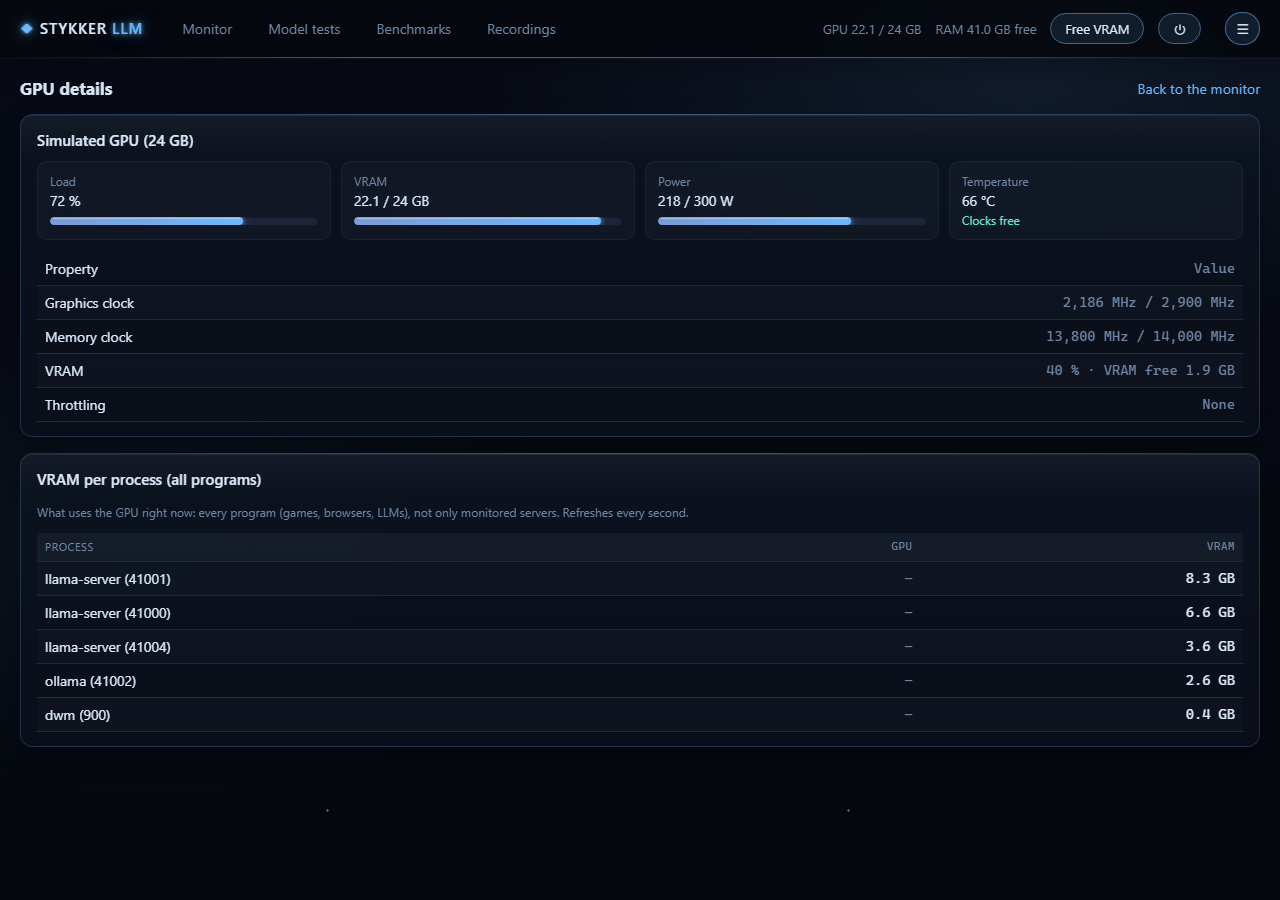
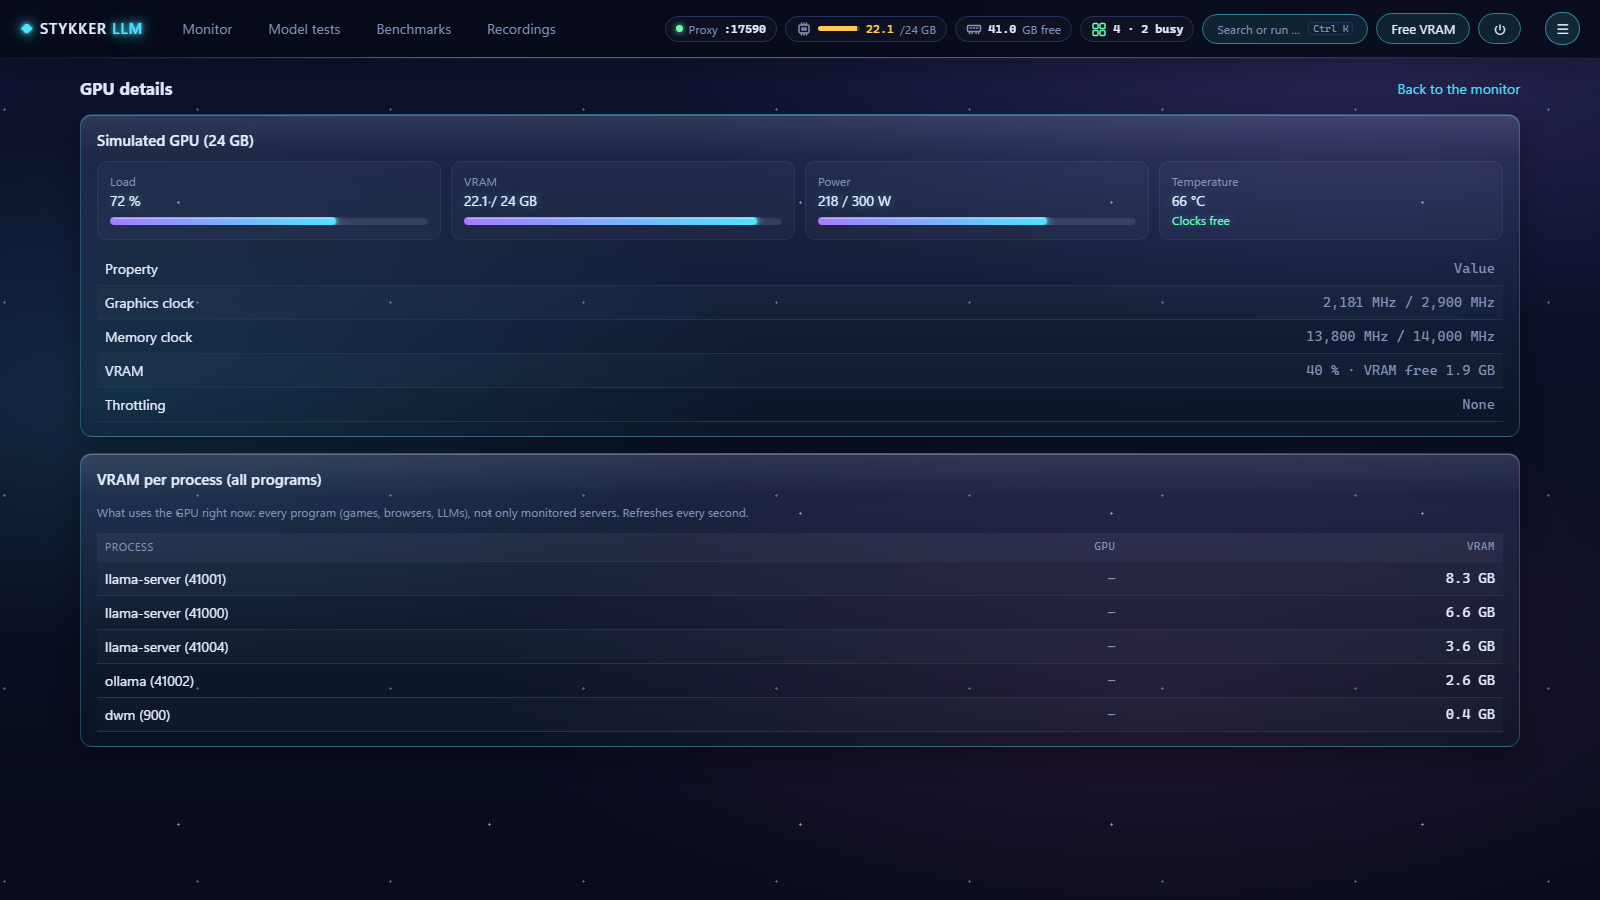
U13: clean-up and docs for the new interface
Dead code and CSS of the old card removed (spark helpers, ModelLine, RoTip, MemPalette,
.card.server rules). README (en/de) and docs/ui.md describe Dark, Spacepunk Titan and
System, symbols and Ctrl+K; CHANGELOG lists the redesign. New README images (monitor in
Dark and Titan, model tests, GPU) captured from the simulator with headless Edge. Titan's
fastest speed step is blue instead of the orange accent.

diff --git a/src/StykkerLlm.Server/wwwroot/app.css b/src/StykkerLlm.Server/wwwroot/app.css
@@ -140,9 +140,6 @@ button.link:not(:disabled):hover{box-shadow:none}
 .card:hover{border-color:color-mix(in srgb,var(--card-border) 60%,var(--acc));box-shadow:inset 0 1px 0 var(--top-line),0 14px 34px rgb(0 0 0/.38)}
 @keyframes rise{from{opacity:0;transform:translateY(8px)}to{opacity:1;transform:none}}
 /* ein Server, der gerade schreibt, leuchtet an der Kante, ein Lichtstreif läuft über die Oberkante */
-.card.server.busy{border-color:rgb(var(--good-rgb)/.45);box-shadow:inset 0 1px 0 var(--top-line),0 10px 26px rgb(0 0 0/.32),0 0 26px rgb(var(--good-rgb)/.12)}
-.card.server.busy::before{left:0;right:0;opacity:1;background:linear-gradient(90deg,transparent,var(--good),transparent) no-repeat;background-size:40% 100%;animation:sweep 2.4s linear infinite}
-@keyframes sweep{from{background-position:-60% 0}to{background-position:160% 0}}
 
 /* Abschnittsköpfe: Akzentstrich davor, Haarlinie dahinter */
 .sec{display:flex;align-items:center;gap:10px}
@@ -156,7 +153,6 @@ button.link:not(:disabled):hover{box-shadow:none}
 
 /* große Zahlen mit Verlauf, Kennzahlen als kleine Kacheln */
 .big{background:linear-gradient(180deg,var(--ink),color-mix(in srgb,var(--ink) 50%,var(--acc)));-webkit-background-clip:text;background-clip:text;color:transparent;font-variant-numeric:tabular-nums;letter-spacing:-.01em}
-.card.server.busy .big{background-image:linear-gradient(180deg,color-mix(in srgb,var(--good) 55%,white),var(--good));filter:drop-shadow(0 0 10px rgb(var(--good-rgb)/.35))}
 .kpi{background:rgb(var(--ink-rgb)/.03);border:1px solid rgb(var(--ink-rgb)/.06);border-radius:10px;padding:10px 12px;transition:border-color .2s,background .2s}
 .kpi:hover{border-color:rgb(var(--acc-rgb)/.3);background:rgb(var(--acc-rgb)/.05)}
 .kpi .bar{margin-top:6px}
@@ -202,8 +198,6 @@ label.check{display:flex;align-items:center;gap:8px;font-size:13px;cursor:pointe
   *,*::before,*::after{animation:none!important;transition:none!important}
 }
 .spark .area{fill:rgb(var(--acc-rgb)/.13)}
-.card.server.busy .spark polyline{stroke:var(--good);filter:drop-shadow(0 0 4px rgb(var(--good-rgb)/.8))}
-.card.server.busy .spark .area{fill:rgb(var(--good-rgb)/.12)}
 .brand .acc{background-image:linear-gradient(90deg,var(--acc),color-mix(in srgb,var(--acc) 55%,white))}
 details.menu>div>a{text-align:left;padding-left:12px}details.menu{z-index:6}
 /* Kompakt: ☰ oben rechts neben der Marke, Messwerte darunter, Reiter als letzte Zeile */
@@ -215,12 +209,11 @@ html.shell .bar>div::after{display:none}
 /* ebenso Weichzeichner und Filter: ohne GPU rechnet jeder Takt sie neu (Lichthöfe bleiben als box-shadow) */
 html.shell .top,html.shell details.menu>div,html.shell .modal-back{backdrop-filter:none}
 html.shell .top{background:rgb(var(--bg-rgb)/.97)}
-html.shell .spark polyline,html.shell .card.server.busy .big,html.shell .card.server.busy .spark polyline{filter:none}
+html.shell .spark polyline{filter:none}
 /* und weiche Schatten und gleitende Breiten: der Takt (alle 2 s) zeichnet die Karten neu, ohne GPU kostet ein
    breiter Weichzeichner-Schatten dann jedes Mal. Kanten und Farben bleiben, nur ohne Weichzeichner. */
 html.shell .bar>div,html.shell .stack>div{transition:none}
 html.shell .card,html.shell .card:hover{box-shadow:inset 0 1px 0 var(--top-line)}
-html.shell .card.server.busy{box-shadow:inset 0 1px 0 var(--top-line),0 0 0 1px rgb(var(--good-rgb)/.25)}
 html.shell .top{box-shadow:none}
 html.shell nav a.active{box-shadow:0 0 0 1px rgb(var(--acc-rgb)/.25)}
 
@@ -232,8 +225,6 @@ html.shell nav a.active{box-shadow:0 0 0 1px rgb(var(--acc-rgb)/.25)}
 .brand .acc{background:none;-webkit-background-clip:border-box;background-clip:border-box;color:var(--acc)}
 .card{background-image:linear-gradient(180deg,rgb(255 255 255/var(--sheen)),rgb(255 255 255/0) 42px),linear-gradient(180deg,var(--card-top),var(--card-bottom))}
 .big{background:none;-webkit-background-clip:border-box;background-clip:border-box;color:var(--ink)}
-.card.server.busy .big,html.shell .card.server.busy .big{color:#fff;filter:none;background:none;
-  text-shadow:0 0 4px rgb(var(--acc-rgb)/min(1,calc(1.4*var(--glow)))),0 0 14px rgb(var(--acc-rgb)/calc(1.1*var(--glow))),0 0 30px rgb(var(--acc-rgb)/calc(.6*var(--glow)))}
 .dot{text-shadow:0 0 3px color-mix(in srgb,currentColor calc(var(--glow)*100%),transparent),0 0 9px color-mix(in srgb,currentColor calc(var(--glow)*80%),transparent)}
 .bar>div{box-shadow:0 0 4px rgb(var(--acc-rgb)/min(1,calc(1.3*var(--glow)))),0 0 12px rgb(var(--acc-rgb)/calc(.8*var(--glow)))}
 .bar>div::before{content:"";position:absolute;left:3px;right:3px;top:1px;height:1px;background:rgb(255 255 255/.35)}
@@ -246,9 +237,8 @@ nav a.active{text-shadow:0 0 10px rgb(var(--acc-rgb)/calc(1.2*var(--glow)))}
 .spark polyline.glow1{stroke-width:10px;opacity:calc(.2*var(--glow))}
 .spark polyline.glow2{stroke-width:5px;opacity:calc(.4*var(--glow))}
 .spark polyline.line{vector-effect:non-scaling-stroke;stroke-width:1.8px}
-.spark polyline,.card.server.busy .spark polyline{filter:none;stroke:var(--acc)}
-.card.server.busy .spark polyline.glow1,.card.server.busy .spark polyline.glow2{stroke:var(--acc)}
-.spark .area,.card.server.busy .spark .area{fill:rgb(var(--acc-rgb)/.14)}
+.spark polyline{filter:none;stroke:var(--acc)}
+.spark .area{fill:rgb(var(--acc-rgb)/.14)}
 .spark-tip{position:absolute;right:-3px;width:8px;height:8px;margin-top:-4px;border-radius:50%;background:var(--acc);
   box-shadow:0 0 0 3px rgb(var(--acc-rgb)/calc(.25*var(--glow))),0 0 10px 3px rgb(var(--acc-rgb)/calc(.45*var(--glow)));pointer-events:none}
 .spark-tip::after{content:"";position:absolute;left:2.5px;top:2.5px;width:3px;height:3px;border-radius:50%;background:rgb(255 255 255/.8)}
@@ -269,7 +259,6 @@ html[data-theme=titan] .brand .logo,html[data-theme=titan] .brand .acc{color:var
 html[data-theme=titan] .card,html[data-theme=titan] .modal,html[data-theme=titan] details.menu>div{background:var(--card);border:1px solid var(--card-border);box-shadow:none;backdrop-filter:none}
 html[data-theme=titan] .card::before{display:none}
 html[data-theme=titan] .card:hover{border-color:var(--ink);box-shadow:none}
-html[data-theme=titan] .card.server.busy{border-color:var(--card-border);box-shadow:inset 4px 0 0 var(--signal)}
 html[data-theme=titan] .kpi{background:var(--card2);border:1px solid var(--line);border-radius:var(--radius)}
 html[data-theme=titan] .kpi:hover{background:var(--card2);border-color:var(--card-border)}
 html[data-theme=titan] .sec{color:var(--ink);letter-spacing:.14em;font-family:var(--font-num);font-size:11px}
@@ -307,19 +296,17 @@ html[data-theme=titan] .dot{animation:none;text-shadow:none}
 /* Display-Fenster: die großen Zahlen und die Kurve auf dunklem Einsatz, dort leuchtet Phosphor-Grün */
 html[data-theme=titan] .big{display:inline-block;background:var(--disp);color:var(--disp-ink);padding:4px 10px;border:1px solid var(--card-border);
   text-shadow:0 0 6px rgb(var(--disp-ink-rgb)/calc(.6*var(--glow))),0 0 16px rgb(var(--disp-ink-rgb)/calc(.3*var(--glow)))!important}
-html[data-theme=titan] .card.server.busy .big,html.shell[data-theme=titan] .card.server.busy .big{background:var(--disp);color:var(--disp-ink);text-shadow:0 0 6px rgb(var(--disp-ink-rgb)/calc(.8*var(--glow))),0 0 18px rgb(var(--disp-ink-rgb)/calc(.45*var(--glow)))!important}
 html[data-theme=titan] .big+.muted{color:var(--muted)}
 html[data-theme=titan] .spark{background:var(--disp);border:1px solid var(--card-border);border-radius:0}
 html[data-theme=titan] .spark polyline,html[data-theme=titan] .spark polyline.glow1,html[data-theme=titan] .spark polyline.glow2,
-html[data-theme=titan] .card.server.busy .spark polyline{stroke:var(--disp-ink)}
-html[data-theme=titan] .spark .area,html[data-theme=titan] .card.server.busy .spark .area{fill:rgb(var(--disp-ink-rgb)/.12)}
+html[data-theme=titan] .spark .area{fill:rgb(var(--disp-ink-rgb)/.12)}
 html[data-theme=titan] .spark-tip{background:var(--disp-ink);box-shadow:0 0 8px 2px rgb(var(--disp-ink-rgb)/calc(.5*var(--glow)))}
 html[data-theme=titan] .pairbox{border-color:var(--card-border);border-radius:var(--radius)}
 html[data-theme=titan] .pairbox .code{color:var(--ink)}
 html[data-theme=titan] ::selection{background:rgb(var(--acc-rgb)/.25);color:var(--ink)}
 html[data-theme=titan] *{scrollbar-color:var(--card-border) transparent}
 /* Fenster ohne GPU: auch in Titan keine Lichthöfe in den Displays */
-html.shell[data-theme=titan] .big,html.shell[data-theme=titan] .card.server.busy .big,html.shell[data-theme=titan] .spark-tip{text-shadow:none!important;box-shadow:none}
+html.shell[data-theme=titan] .big,html.shell[data-theme=titan] .spark-tip{text-shadow:none!important;box-shadow:none}
 
 /* Symbole (U2): Strichzeichnungen aus IconSprite, Farbe vom Text */
 .ic{width:16px;height:16px;flex:none;fill:none;stroke:currentColor;stroke-width:1.5;stroke-linecap:round;stroke-linejoin:round;vertical-align:-3px}
@@ -660,3 +647,4 @@ html[data-theme=titan] nav a{font-family:var(--font);letter-spacing:.02em}
 [data-view=small] .top{flex-wrap:wrap}[data-view=small] .top .status{flex-wrap:wrap;overflow:visible}
 .theme-seg button{min-width:110px}
 @media(max-width:1560px){.hsearch span:first-child{display:none}.top nav a{padding:5px 10px}.top{gap:12px 16px}}
+html[data-theme=titan] .sp4{--spc:var(--st-read)}   /* schnellste Stufe blau: Orange ist in Titan der Akzent und wirkte wie eine Warnung */

diff --git a/tests/StykkerLlm.Tests/WebThemeTests.cs b/tests/StykkerLlm.Tests/WebThemeTests.cs
@@ -115,25 +115,6 @@ public class WebThemeTests
         Assert.IsFalse(css.Contains('"'));
     }
 
-    // ── Speicherbalken: die Farben des Fensters (MainForm.MemBar) ──
-    [TestMethod]
-    public void MemPalette_BeginsWithTheFourThemeColors()
-    {
-        foreach (var t in ThemeCatalog.All)
-        {
-            var pal = t.MemPalette();
-            Assert.AreEqual(8, pal.Length, t.Name);
-            Assert.AreEqual(t.Accent, pal[0]);
-            Assert.AreEqual(t.Second, pal[1]);
-            Assert.AreEqual(t.Good, pal[2]);
-            Assert.AreEqual(t.Warn, pal[3]);
-            foreach (var c in pal)
-                Assert.IsTrue(HexColor.IsMatch(c), $"{t.Name}: Balkenfarbe {c} (dort ohne Deckkraft)");
-        }
-        var deep = ThemeCatalog.Default;
-        Assert.AreEqual(ThemeInfo.Mix(deep.Accent, deep.Bad, 0.5), deep.MemPalette()[4]);
-    }
-
     [TestMethod]
     public void Mix_And_Rgb_FollowTheWindowRules()
     {

diff --git a/src/StykkerLlm.Core/ThemeCatalog.cs b/src/StykkerLlm.Core/ThemeCatalog.cs
@@ -78,13 +78,6 @@ public sealed record ThemeInfo
         Display = "#141819", DisplayInk = "#7cff9e", DisplayUnit = "#ffb347",
     };
 
-    // Die acht Farben des gestapelten Speicherbalkens, ein Abschnitt je Programm
-    public string[] MemPalette() => new[]
-    {
-        Accent, Second, Good, Warn,
-        Mix(Accent, Bad, 0.5), Mix(Second, Good, 0.5), Mix(Warn, Bad, 0.4), Mix(Accent, Ink, 0.4),
-    };
-
     // Die CSS-Variablen dieses Themas (ohne Selektor). Ohne Anführungszeichen, damit Razor nichts escaped.
     public string CssVariables()
     {

diff --git a/docs/plan-ui-redesign.md b/docs/plan-ui-redesign.md
@@ -1,6 +1,6 @@
 # Plan: new web interface (Dark + Spacepunk Titan)
 
-Status: **U1–U12 and U14 done** (2026-10-08); U13 next. Stop keeps its detailed confirm dialog (process, PID, clients) instead of a small popover. Approved by the owner on 2026-10-07. Work happens on `dev`, package by package; after each package:
+Status: **U1–U14 done** (2026-10-08). README monitor images captured with headless Edge (Dark and Titan); also model tests and GPU; benchmarks, phone and window images still show the old design. Stop keeps its detailed confirm dialog (process, PID, clients) instead of a small popover. Approved by the owner on 2026-10-07. Work happens on `dev`, package by package; after each package:
 build, all tests, a screenshot in Dark and Titan, commit.
 
 Reference: the mockups in `docs/design/` (open them in a browser, controls at the bottom left).
@@ -38,7 +38,7 @@ Reference: the mockups in `docs/design/` (open them in a browser, controls at th
 | U11 ✓ | Hints | "Slower than usual" (compared with the profile's average), VRAM short, hazard stripes in Titan | unit test thresholds |
 | U12 ✓ | Other pages | Hosts, Runs, Results, Catalog, Models, Bench, Recordings, Compare, Prompt, Phone, Settings, GPU, history detail, bug report: new tokens, symbols and controls; no old theme left | screenshot per page, both themes |
 | U14 ✓ | Memory details | Hardware card: RAM type (DDR4/DDR5), configured speed and theoretical bandwidth from SMBIOS (Windows, GetSystemFirmwareTable, no package); logical core count already shown in *CPU load*. per-core load only as tooltip of the CPU meter (owner, 2026-10-08) | unit test SMBIOS type-17 parser with a captured table |
-| U13 | Clean-up and docs | Remove old theme code and unused CSS, update README images, docs/ui.md, CHANGELOG | build, all tests, no dead CSS classes |
+| U13 ✓ | Clean-up and docs | Remove old theme code and unused CSS, update README images, docs/ui.md, CHANGELOG | build, all tests, no dead CSS classes |
 
 Order: U1 → U2 → U3 → U4 → U5 → U6 → U7 → U8 → U9 → U10 → U11 → U12 → U13. U7 and U8 need new data in Core; their data part
 can come first if the UI waits.

diff --git a/docs/ui.md b/docs/ui.md
@@ -44,6 +44,10 @@ feed it from the simulator (`SimSource`).
 - All text from `src/StykkerLlm.Core/Strings*.cs` (English).
 - No logic in pages: actions (`ActionApi`) and state (`StateJson`) only. A new function goes into the web UI; the terminal
   display only gets it if it is something to *look at*.
-- Themes: five themes in `Core/ThemeCatalog.cs` (colors, radius, glow, sheen); the web UI gets them as CSS variables, the
-  terminal as colors (`Tui/Palette.cs`).
+- Themes: *Dark* and *Spacepunk Titan* in `Core/ThemeCatalog.cs` (colors incl. backend, state and display-window colors,
+  radius, glow), plus *System* (`ui.js` picks by `prefers-color-scheme`); the web UI gets both as CSS variables under
+  `html[data-theme]`, the terminal as colors (`Tui/Palette.cs`). Titan's shapes (joints, plates, chamfer, hazard stripes) live
+  in the Titan section of `app.css`. Design reference: `docs/design/mockup-7.html`, plan `docs/plan-ui-redesign.md`.
+- Symbols: one sprite (`Components/IconSprite.razor`), used via `<Icon Name="…" Title="…" />`; a value a backend does not
+  report keeps its place as a muted "–" with the reason in the tooltip. A state is never shown by colour alone.
 - The window renders without GPU (`html.shell`): no endless animations, blur or large soft shadows there; static glow is fine.

diff --git a/CHANGELOG.md b/CHANGELOG.md
@@ -6,6 +6,17 @@ The format is based on [Keep a Changelog](https://keepachangelog.com/en/1.0.0/).
 
 ## Unreleased
 
+### Changed
+- **New web interface** (docs/plan-ui-redesign.md, mockups in docs/design/): only two themes, *Dark* and *Spacepunk
+  Titan* (light, matte, glow only in the dark display windows), plus *System*. The five old themes are gone; a stored old
+  theme becomes Dark.
+- **Monitor**: status bar in the header, two columns; one server card for every backend and for model hosts (backend
+  stripe, state symbol, slot tiles, twelve fixed metrics); hardware card with RAM type and theoretical bandwidth;
+  saved profiles as tiles with a VRAM forecast; recent requests with client kind, tool calls, thinking tokens and result;
+  history grouped by day with how each run ended, filters and forget-with-undo; proxy panel reworked.
+- **Keyboard**: `Ctrl+K` command palette (pages and actions), `/` jumps into the history search.
+- *Server lost* is a banner instead of a dialog; read-only and viewer get a notice bar.
+
 ### Added
 - **Model hosts** (docs/hosts.md): `StykkerHost.exe` runs on PCs that only run models – a tray icon, no window. It
   pairs with the server by a six-digit code and dials in over one WebSocket (no open port on the host).

diff --git a/README.md b/README.md
@@ -9,6 +9,12 @@ any browser or your phone; keep an eye on it in the terminal. Nothing leaves you
 
 ![StykkerLLM monitor](docs/images/monitor.png)
 
+<details><summary>Spacepunk Titan (light)</summary>
+
+![StykkerLLM monitor – Spacepunk Titan](docs/images/monitor-titan.png)
+
+</details>
+
 <sub>All pictures show the built-in simulator: made-up servers and numbers. The model test ranking is real.</sub>
 
 ## What it does
@@ -32,7 +38,9 @@ any browser or your phone; keep an eye on it in the terminal. Nothing leaves you
   proxy starts a requested model on the host that has the file and room for it.
 - **Phone access**: six-digit code or QR code, roles *Admin* and *Viewer*, Home/VPN switch – works over Tailscale too.
 - **Bug report** in one click: a zip with logs and state, secrets blacked out, plus a prefilled GitHub issue.
-- **Five themes** with the soft glow of the original window: Deep Sea, Cyber Grid, Space Glass, Obsidian, Phosphor.
+- **Two themes**: *Dark* with a soft glow and *Spacepunk Titan*, a matte light theme like a ship console under work
+  light; *System* switches with the light/dark setting of the device. Symbols instead of words, `Ctrl+K` for every page
+  and action.
 
 | Model tests | GPU details |
 |---|---|

diff --git a/README.de.md b/README.de.md
@@ -9,6 +9,12 @@ jedem Browser oder auf dem Handy; im Terminal behältst du alles im Blick. Nicht
 
 ![StykkerLLM Monitor](docs/images/monitor.png)
 
+<details><summary>Spacepunk Titan (hell)</summary>
+
+![StykkerLLM Monitor – Spacepunk Titan](docs/images/monitor-titan.png)
+
+</details>
+
 <sub>Alle Bilder zeigen den eingebauten Simulator: ausgedachte Server und Zahlen. Die Rangliste der Modelltests ist echt.</sub>
 
 ## Was es kann
@@ -34,7 +40,8 @@ jedem Browser oder auf dem Handy; im Terminal behältst du alles im Blick. Nicht
 - **Handy-Zugang**: sechsstelliger Code oder QR-Code, Rollen *Admin* und *Viewer*, Schalter Home/VPN – auch über Tailscale.
 - **Fehlerbericht** mit einem Klick: Zip mit Protokollen und Stand, Geheimnisse geschwärzt, dazu ein vorausgefülltes
   GitHub-Issue.
-- **Fünf Themen** mit dem weichen Leuchten des alten Fensters: Deep Sea, Cyber Grid, Space Glass, Obsidian, Phosphor.
+- **Zwei Themen**: *Dark* mit weichem Leuchten und *Spacepunk Titan*, ein mattes helles Thema wie eine Schiffskonsole
+  bei Arbeitslicht; *System* folgt Hell/Dunkel des Geräts. Symbole statt Wörter, `Ctrl+K` für jede Seite und Aktion.
 
 | Modelltests | GPU-Details |
 |---|---|
